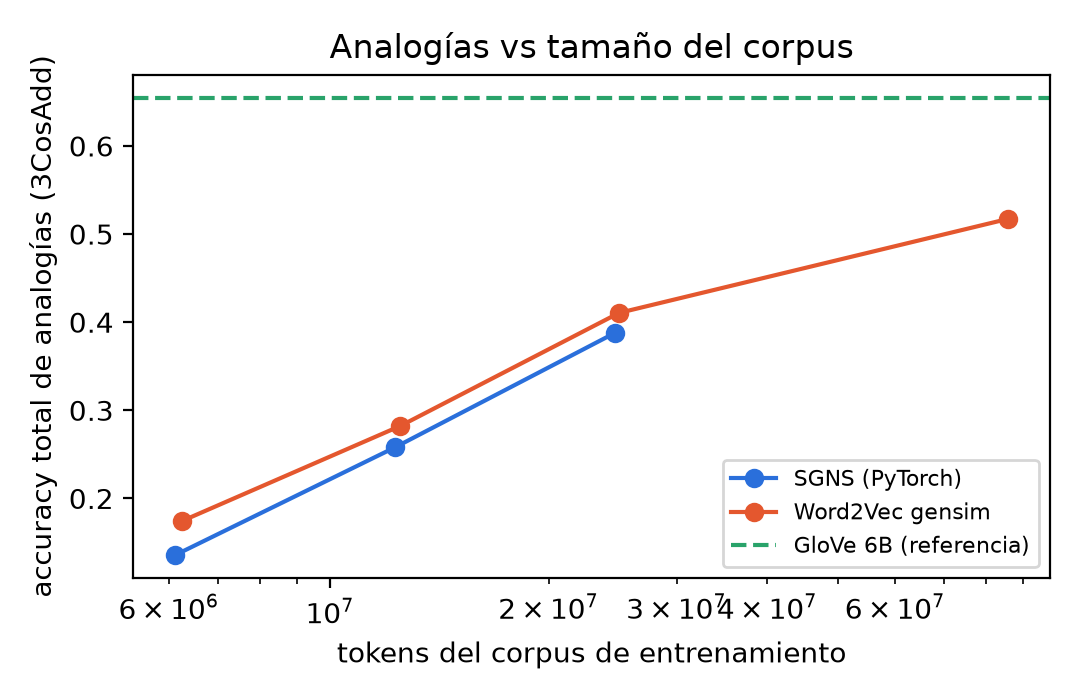
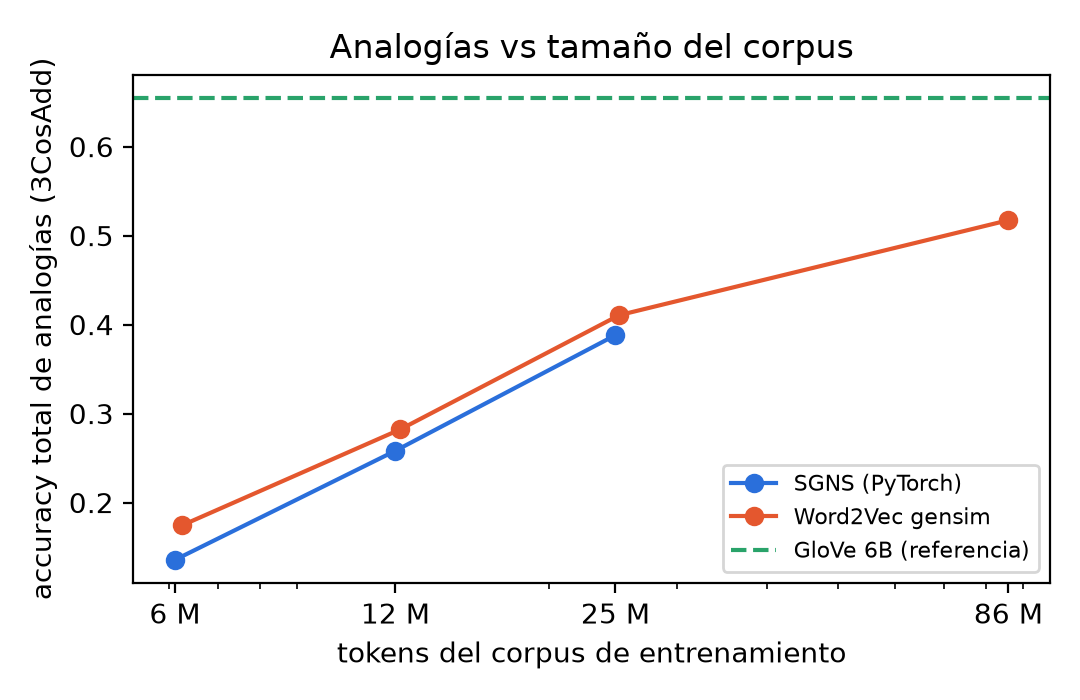
[fix] lab7: ejes legibles en las gráficas de tamaño de corpus y de fracción de datos

diff --git a/lab7/src/lab7/plots.py b/lab7/src/lab7/plots.py
@@ -2,6 +2,7 @@ import matplotlib
 
 matplotlib.use("Agg")
 import matplotlib.pyplot as plt
+import matplotlib.ticker
 import numpy as np
 
 COLORS = ["#2a6fdb", "#e4572e", "#29a36a", "#f2a541", "#7b4fd6", "#17a2b8", "#d63a8c", "#6c757d", "#8c564b", "#111111"]
@@ -85,6 +86,9 @@ def corpus_size_plot(sgns_points, gensim_points, glove_acc, path):
         ax.plot(xs, ys, "o-", color=color, label=label)
     ax.axhline(glove_acc, color=COLORS[2], ls="--", label="GloVe 6B (referencia)")
     ax.set_xscale("log")
+    ticks = sorted(x for x, _ in list(sgns_points) + list(gensim_points))
+    ax.xaxis.set_minor_formatter(matplotlib.ticker.NullFormatter())
+    ax.set_xticks([ticks[0], ticks[2], ticks[4], ticks[-1]], [f"{t / 1e6:.0f} M" for t in (ticks[0], ticks[2], ticks[4], ticks[-1])])
     ax.set(xlabel="tokens del corpus de entrenamiento", ylabel="accuracy total de analogías (3CosAdd)",
            title="Analogías vs tamaño del corpus")
     ax.legend(fontsize=8)
@@ -99,6 +103,8 @@ def fraction_plot(curves, path):
         stds = [np.std(points[x]) for x in xs]
         ax.errorbar(xs, means, yerr=stds, fmt="o-", ms=4, capsize=2, color=COLORS[k], label=label)
     ax.set_xscale("log")
+    ax.xaxis.set_minor_formatter(matplotlib.ticker.NullFormatter())
+    ax.set_xticks(xs, [f"{100 * x:g} %" for x in xs])
     ax.set(xlabel="fracción de train de AG News", ylabel="F1 macro en test", title="F1 de test vs datos de entrenamiento")
     ax.legend(fontsize=7)
     _save(fig, path)
